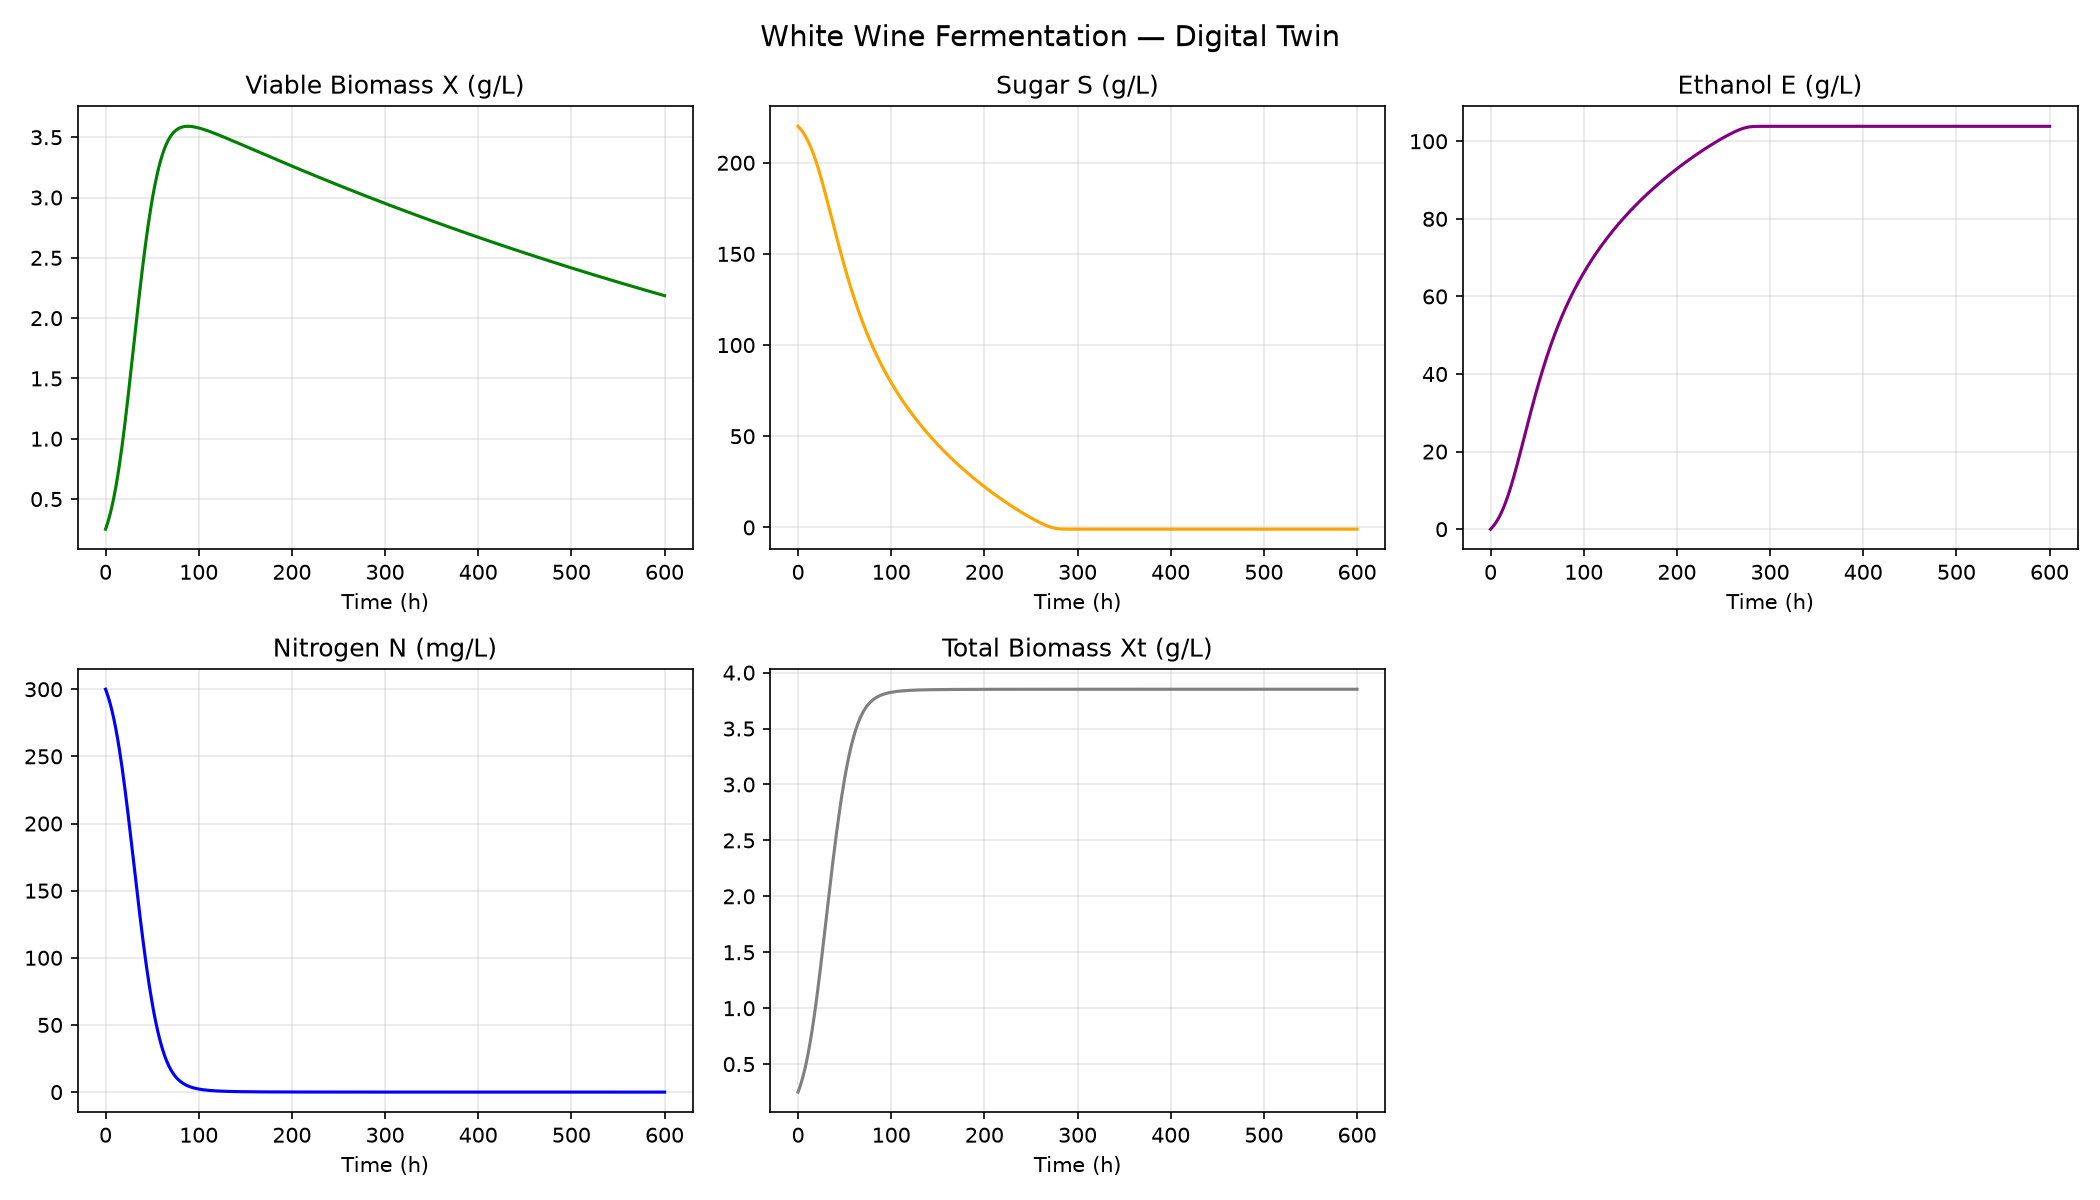
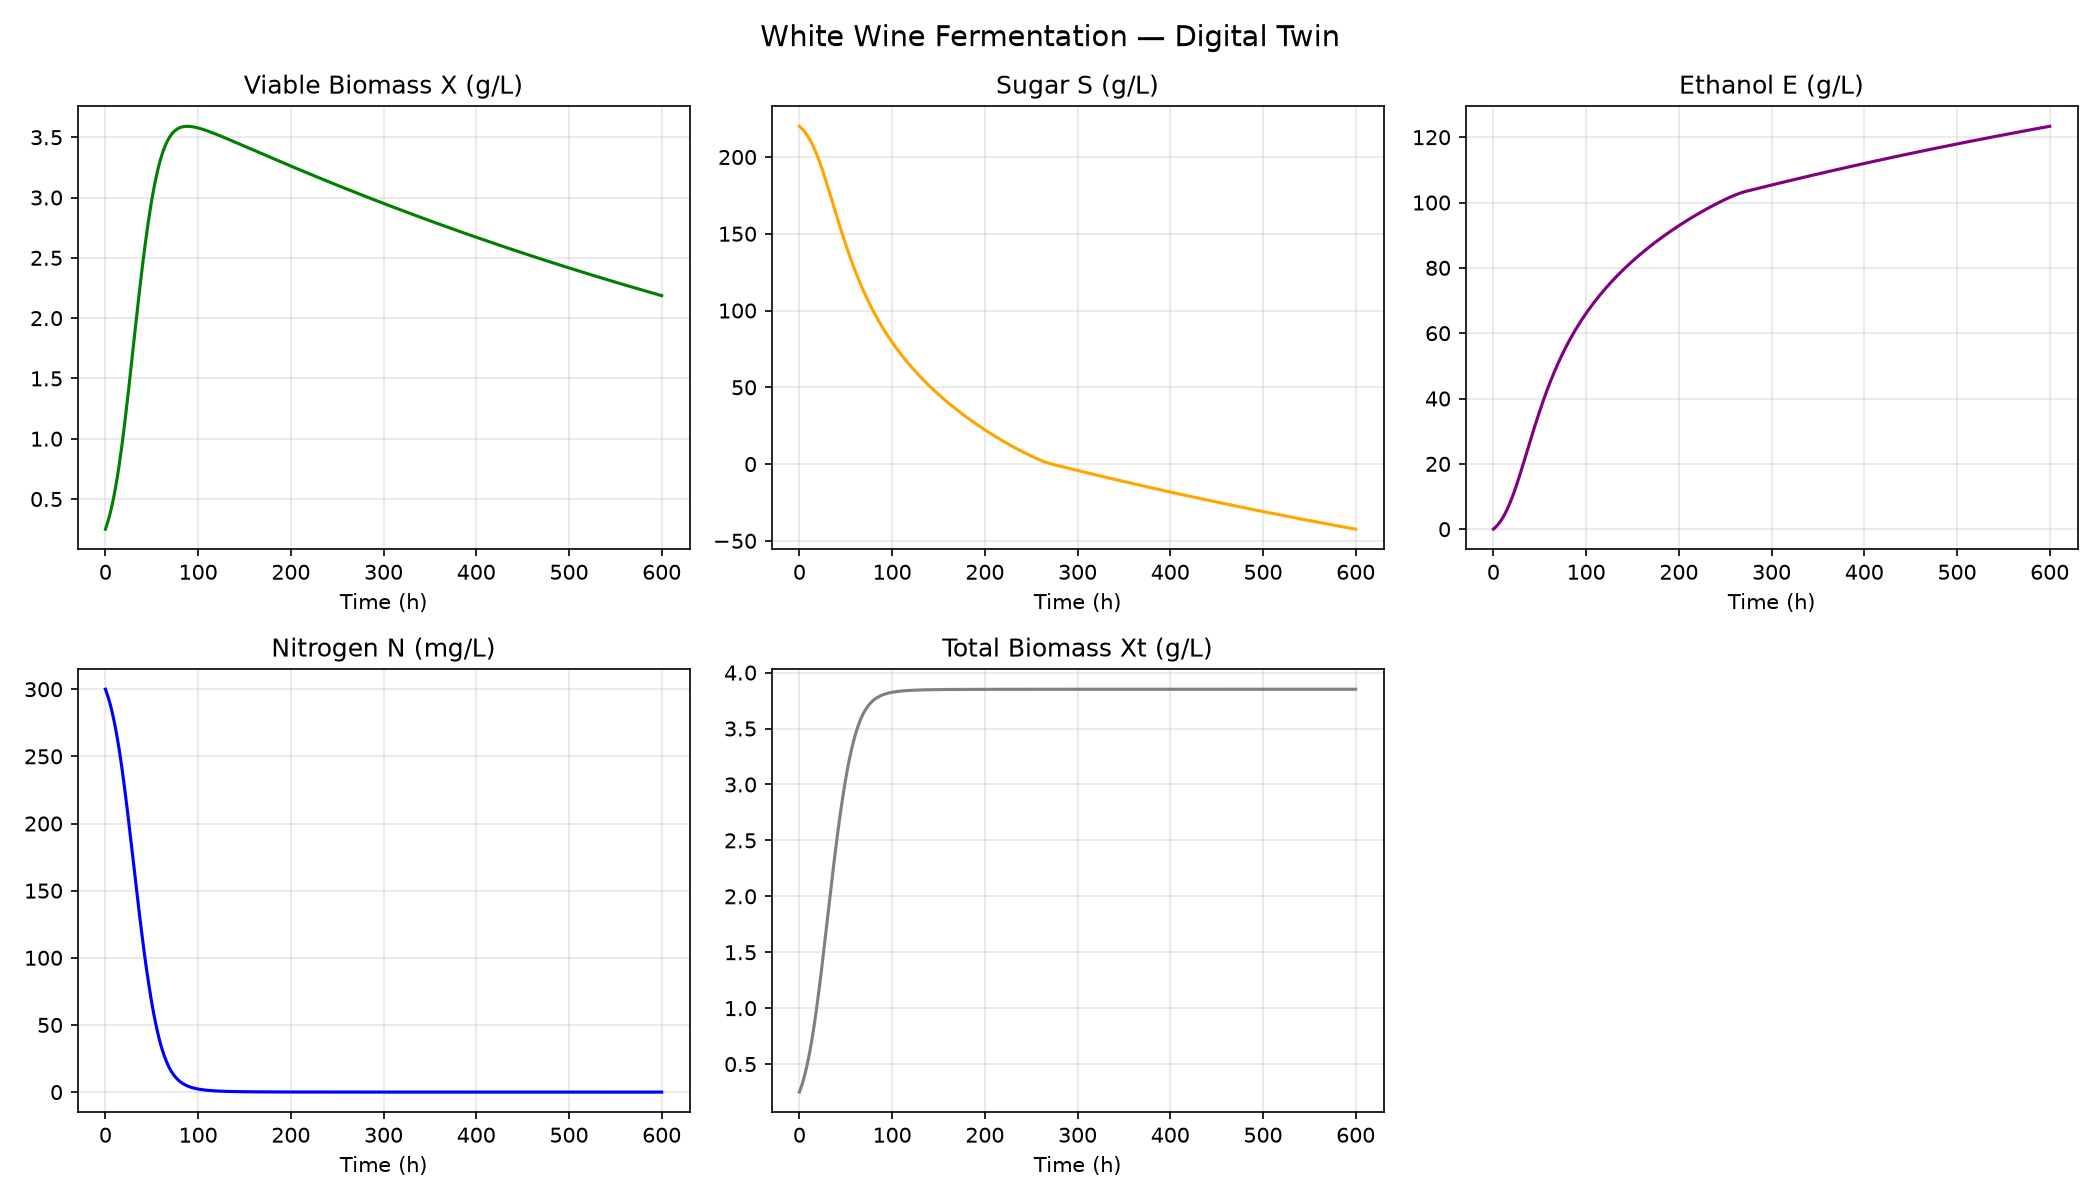
increase the kd

diff --git a/src/process/simulator.py b/src/process/simulator.py
@@ -1,6 +1,7 @@
 # because we know the rate of change we solve the system of equations using solve_ivp
 import numpy as np
 from scipy.integrate import solve_ivp
+
 import matplotlib.pyplot as plt
 
 # state vector :the numbers that we want to track during the simulation
@@ -16,23 +17,22 @@ STATE_NAMES = ["X", "Xt", "S", "N", "E"]
 # Parameters (white wine preset, literature values) ─────
 params = {
     # Growth
-    "mu_max": 0.10,  # max specific growth rate (1/h) — λευκό ~14°C
+    "mu_max": 0.031,  # — ~14°C (Nelson & Boulton, 2024)
     "KN": 50.0,  # half-saturation for nitrogen (mg/L) — Monod KS
     "kE": 0.035,  # ethanol inhibition constant — Coleman et al.
-    "kd": 0.001,  # death rate (1/h) — viability decay
+    "kd": 0.0001,  # death rate (1/h) — viability decay
     # Stoichiometry
-    "Yxn": 83.3,  # nitrogen consumed per biomass (mg N / g X)
+    "Yxn": 0.04,  # nitrogen consumed per biomass (4 g/L X from 100 mg/L N)
     "Yes": 0.47,  # ethanol yield on sugar (g E / g S) — Gay-Lussac ~0.51
     # Sugar uptake
     "Ks": 2.0,  # half-saturation for sugar (g/L)
-    "vmax_s": 2.0,  # max sugar uptake rate (g S / g X / h)
+    "vmax_s": 0.10,  # max sugar uptake rate (g S / g X / h)
     # Temperature
-    "T_opt": 14.0,  # optimal temp for white wine (°C)
-    "T_std": 4.0,  # Gaussian width (°C)
+    "T_ref": 15.0,  # reference temperature (°C) arrhenius
     # Initial conditions (white wine)
     "X0": 0.25,  # initial biomass (g/L)
     "Xt0": 0.25,
-    "S0": 220.0,  # initial sugar (g/L) — ~13% ABV potential
+    "S0": 220.0,  # initial sugar (g/L) —
     "N0": 300.0,  # initial YAN (mg/L) — adequate nitrogen
     "E0": 0.0,  # no ethanol at start
     "T": 14.0,  # fermentation temperature (°C)
@@ -46,8 +46,21 @@ params = {
 def rhs(t, y, p):  # t as time,y the state vector,p as the parameters
     X, Xt, S, N, E = y  # unpack the state vector
 
+    # Guard: concentrations cannot go below zero
+    X = max(X, 0.0)
+    S = max(S, 0.0)
+    N = max(N, 0.0)
+    E = max(E, 0.0)
     # modulating factors : nitrogen limitation, ethanol inhibition, temperature effect
     # AS F_N increases, growth rate increases, as F_N decreases, growth rate decreases
+
+    # 3. Temperature —
+    R_gas = 8.314
+    Ea = 55_000
+    T_K = p["T"] + 273.15
+    T_ref_K = p["T_ref"] + 273.15
+    f_T = np.exp(-Ea / R_gas * (1 / T_K - 1 / T_ref_K))
+
     # nitrogen limitation (monod type)    , N=nitrogen concentration, KN=half-saturation constant for nitrogen
     f_N = N / (
         p["KN"] + N
@@ -55,10 +68,6 @@ def rhs(t, y, p):  # t as time,y the state vector,p as the parameters
 
     # 2. Ethanol inhibition — όσο ανεβαίνει το E, πέφτει η δράση
     f_E = np.exp(-p["kE"] * E)
-
-    # 3. Temperature — Gaussian γύρω από το βέλτιστο
-    f_T = np.exp(-(((p["T"] - p["T_opt"]) / p["T_std"]) ** 2))  # ✅
-
     #   # RATES
 
     # specific growth rate  -how fast the biomass grows per unit of existing biomass
@@ -77,7 +86,7 @@ def rhs(t, y, p):  # t as time,y the state vector,p as the parameters
     dS = (
         -v_s * X - p["MNT"] * X
     )  # the main sugar consumption is due to the yeast growth, but there is also a maintenance term that consumes sugar even when the yeast is not growing. This maintenance term is proportional to the biomass and has a rate constant MNT (maintenance rate). The maintenance term is important for long fermentations where the yeast may stop growing but still consume sugar for maintenance.
-    dN = -p["Yxn"] * mu * X
+    dN = -(mu * X) / p["Yxn"]  # was -p["Yxn"] * mu * X
     dE = p["Yes"] * (v_s + p["MNT"]) * X
 
     return [dX, dXt, dS, dN, dE]
@@ -91,6 +100,12 @@ def run_simulation(p=params, t_end=600):
 
     y0 = [p["X0"], p["Xt0"], p["S0"], p["N0"], p["E0"]]  # initial state vector
 
+    def sugar_depleted(t, y, p):
+        return y[2]  # s=y[2] solver stops when this=0
+
+    sugar_depleted.terminal = True
+    sugar_depleted.direction = -1  # only stop when sugar is decreasing
+
     sol = solve_ivp(
         fun=rhs,
         t_span=(0, t_end),
@@ -99,13 +114,14 @@ def run_simulation(p=params, t_end=600):
         method="RK45",  # Runge-Kutta
         dense_output=True,  #  λείες καμπύλες
         max_step=1.0,  # step max 1 hour
+        events=sugar_depleted,
     )
 
     return sol
 
 
 def plot_simulation(sol):
-    """Σχεδιάζει τις 5 καμπύλες."""
+
     t = sol.t
     X, Xt, S, N, E = sol.y
 
@@ -127,9 +143,12 @@ def plot_simulation(sol):
         ax.set_xlabel("Time (h)")
         ax.grid(True, alpha=0.3)
 
-    axes[1, 2].axis("off")  # κενό panel
+    axes[1, 2].axis("off")
     plt.tight_layout()
-    plt.savefig("results/figures/fermentation_simulation_with_maintenance.png", dpi=150)
+    plt.savefig(
+        "results/figures/fermentation_simulation_with_maintenance_concentrations_not_bellow_zero_WITH_Arrhenius_with_bigger_kd.png",
+        dpi=150,
+    )
     plt.show()
 
 

diff --git a/README.md b/README.md
@@ -1,0 +1,4 @@
+
+
+# Wine Innovation Engine
+